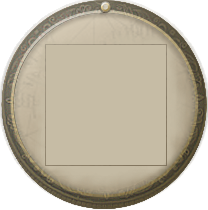
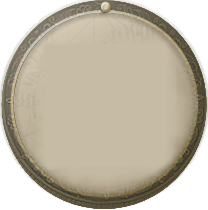
changed minimap position, border and layout

Changed region(s): [[0.2019, 0.2, 0.8077, 0.8]]

diff --git a/horizons/gui/widgets/minimap.py b/horizons/gui/widgets/minimap.py
@@ -125,6 +125,7 @@ class Minimap:
 	  "cam" : "g",
 	  "ship_route" : "h",
 	  "highlight" : "l",
+	  "border" : "r"
 	  }
 
 	__minimap_id_counter = itertools.count()
@@ -246,6 +247,7 @@ class Minimap:
 
 		self.update_cam()
 		self._recalculate()
+		self.draw_border()
 		if not self.preview:
 			self._timed_update(force=True)
 			ExtScheduler().rem_all_classinst_calls(self)
@@ -279,18 +281,64 @@ class Minimap:
 			return # don't draw while loading
 		self.minimap_image.set_drawing_enabled()
 		self.minimap_image.rendertarget.removeAll(self._get_render_name("cam"))
+
+		def drawLine(p1, p2):
+			self.minimap_image.rendertarget.addLine(self._get_render_name("cam"),
+			                                        p1,
+			                                        p2,
+			                                        *self.COLORS["cam"])
+
 		# draw rect for current screen
 		displayed_area = self.view.get_displayed_area()
-		minimap_corners_as_point = []
-		for (x, y) in displayed_area:
-			coords = self.transform.world_to_minimap((x, y))
-			minimap_corners_as_point.append(fife.Point(coords[0], coords[1]))
 
-		for i in range(0, 4):
-			self.minimap_image.rendertarget.addLine(self._get_render_name("cam"),
-			                                        minimap_corners_as_point[i],
-			                                        minimap_corners_as_point[(i + 1) % 4],
-			                                                         *self.COLORS["cam"])
+		xmin, ymin = self.transform.world_to_minimap(displayed_area[0])
+		xmax, ymax = self.transform.world_to_minimap(displayed_area[2])
+
+		# draw horizontal lines
+		for y in [ymin, ymax]:
+			x1 = max(xmin, self.transform.get_min_x(y))
+			x2 = min(xmax, self.transform.get_max_x(y))
+			if x2 > x1:
+				drawLine(fife.Point(x1, y), fife.Point(x2, y))
+
+		# draw vertical lines
+		for x in [xmin, xmax]:
+			y1 = max(ymin, self.transform.get_min_y(x))
+			y2 = min(ymax, self.transform.get_max_y(x))
+			if y2 > y1:
+				drawLine(fife.Point(x, y1), fife.Point(x, y2))
+
+		#minimap_corners_as_point = []
+		#for (x, y) in displayed_area:
+			#coords = self.transform.world_to_minimap((x, y))
+			#minimap_corners_as_point.append(fife.Point(coords[0], coords[1]))
+
+		#for i in range(0, 4):
+			#self.minimap_image.rendertarget.addLine(self._get_render_name("cam"),
+			                                        #minimap_corners_as_point[i],
+			                                        #minimap_corners_as_point[(i + 1) % 4],
+			                                                         #*self.COLORS["cam"])
+
+	def draw_border(self):
+		"""Redraw minimap border."""
+		if not self.cam_border or self.view is None: # needs view
+			return
+		if self.world is None or not self.world.inited:
+			return # don't draw while loading
+		self.minimap_image.set_drawing_enabled()
+		self.minimap_image.rendertarget.removeAll(self._get_render_name("border"))
+
+		points = [
+			fife.Point(self.location.center.x, self.location.top),
+			fife.Point(self.location.right, self.location.center.y),
+			fife.Point(self.location.center.x, self.location.bottom),
+			fife.Point(self.location.left, self.location.center.y)]
+
+		for i in range(4):
+			self.minimap_image.rendertarget.addLine(self._get_render_name("border"),
+			                                        points[i],
+			                                        points[(i + 1) % 4],
+			                                         *self.COLORS["cam"])
 
 	@classmethod
 	def update(cls, tup):
@@ -364,7 +412,9 @@ class Minimap:
 			if not self.location.contains(abs_mouse_position):
 				# mouse click was on icon but not actually on minimap
 				return None
-		return self.transform.minimap_to_world((event.getX(), event.getY()))
+		world_position = self.transform.minimap_to_world((event.getX(), event.getY()))
+		if self.world.map_dimensions.contains_tuple(world_position):
+			return world_position
 
 	def _mouse_entered(self, event):
 		self._show_tooltip(event)
@@ -638,7 +688,7 @@ class Minimap:
 			self.draw()
 
 	def get_size(self):
-		return (self.location.height, self.location.width)
+		return (self.location.width, self.location.height)
 
 
 class _MinimapTransform:
@@ -753,13 +803,31 @@ class _MinimapTransform:
 				x = x_i + location.left
 				# TODO: better name
 				asdf = int(abs(x / location.width - 0.5) * location.height)
-				for y_i in range(asdf, location.height - asdf):
+				for y_i in range(self.get_min_y(x), self.get_max_y(x)):
 					y = y_i + location.top
 					yield (x, y)
 		else:
 			for x in range(location.left, location.width + location.left):
 				for y in range(location.top, location.height + location.top):
 					yield (x, y)
+
+	def get_min_y(self, x):
+		if self.use_rotation:
+			return int(abs(x / self.location.width - 0.5) * self.location.height)
+		else:
+			return 0
+
+	def get_max_y(self, x):
+		return self.location.height - self.get_min_y(x)
+
+	def get_min_x(self, y):
+		if self.use_rotation:
+			return int(abs(y / self.location.height - 0.5) * self.location.width)
+		else:
+			return 0
+
+	def get_max_x(self, y):
+		return self.location.height - self.get_min_x(y)
 
 
 class _MinimapImage:
